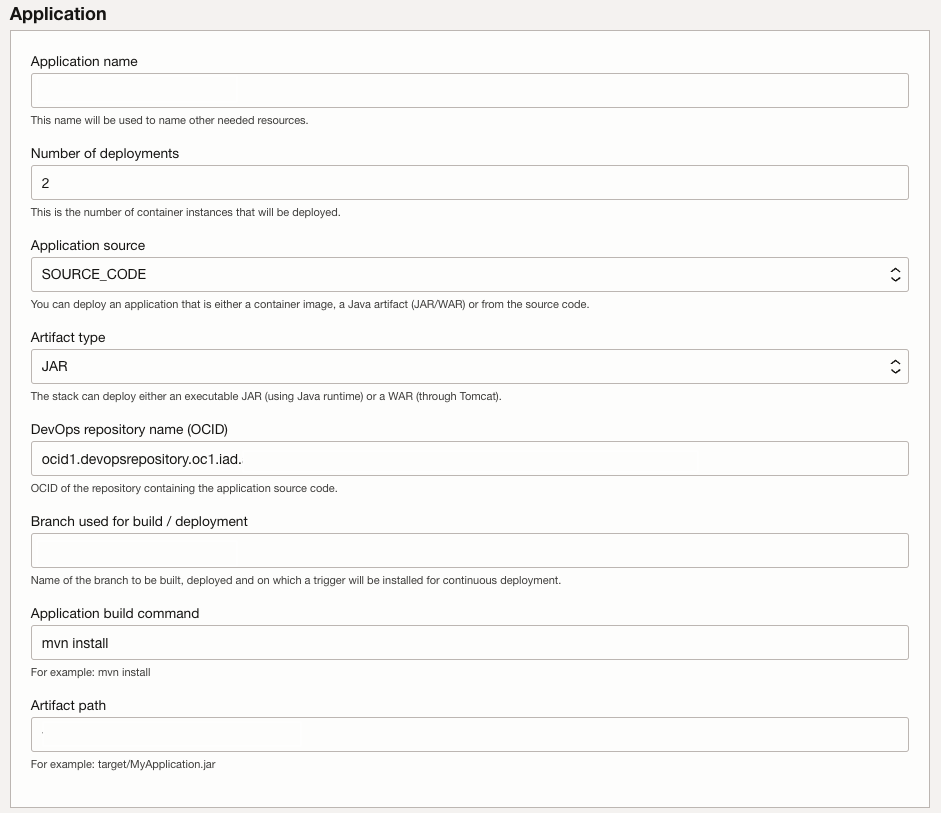
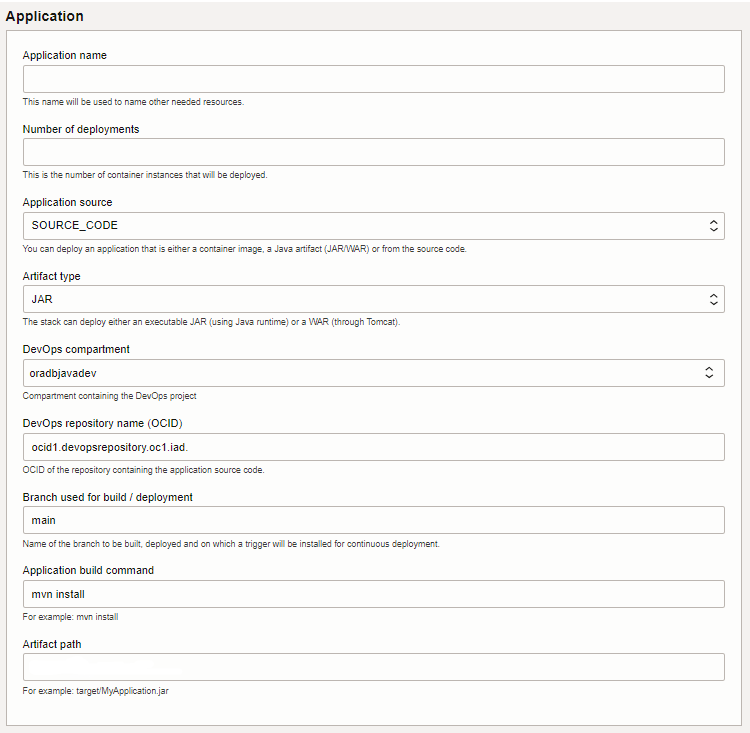
Updated usage information from listing (#13)
* Updated usage information from listing

* Updated usage instructions and screen shot

* Image update

* Updated image

Changed region(s): [[0.0, 0.0, 1.0, 0.9905], [0.0, 0.9604, 0.9813, 1.0]]

diff --git a/listing/usage-information.html b/listing/usage-information.html
@@ -1,86 +1,142 @@
 <p><strong>Configuration</strong></p>
 
-<p><strong>Application</strong>: The stack allows different types of deployments: <em>source code</em> deployment, <em>java artifact</em> deployment or <em>container image</em> deployment. <em>Source code</em> deployment is possible if the source code of the application is stored in OCI DevOps; <em>Java artifact</em> deployment requires a Java artifact to be present in the OCI Artifact Registry; and <em>Container image</em> deployment requires the container image to&nbsp;be present in an OCI Container Registry accessible by the Stack, the image must be configured to respond to HTTPS requests through the exposed port.</p>
+<p><strong>Application</strong>: The stack allows different types of deployments: <em>source code</em> deployment,
+	<em>java artifact</em> deployment or <em>container image</em> deployment. <em>Source code</em> deployment is possible
+	if the source code of the application is stored in OCI DevOps; <em>Java artifact</em> deployment requires a Java
+	artifact to be present in the OCI Artifact Registry; and <em>Container image</em> deployment requires the container
+	image to&nbsp;be present in an OCI Container Registry accessible by the Stack, the image must be configured to respond
+	to HTTPS requests through the exposed port.
+</p>
 
 <ul>
-	<li><strong>Application Name</strong>: application identifier, used as a prefix to some of the resources created by the stack</li>
+	<li><strong>Application Name</strong>: application identifier, used as a prefix to some of the resources created by
+		the stack</li>
 	<li><strong>Number of deployments</strong>: the number of container instances that will be deployed</li>
 	<li><strong>Application source</strong>:&nbsp;source code, or&nbsp;artifact&nbsp;or&nbsp;container registry.</li>
 	<li>If <em>application source</em> is either&nbsp;<em>source code&nbsp;</em>or&nbsp;<em>artifact</em>:
-	<ul>
-		<li><strong>Artifact type</strong>:
 		<ul>
-			<li>JAR: The executable java archive will be run with the&nbsp;<em>JVM options&nbsp;</em>and&nbsp;<em>Program arguments&nbsp;</em>provided in the &quot;Other parameters&quot; section.</li>
-			<li>WAR: The Web Archive will be deployed in a Tomcat Server. This Tomcat Server will be started using the&nbsp;JVM Options&nbsp;provided in the &quot;Other Parameters&quot; section.</li>
+			<li><strong>Artifact type</strong>:
+				<ul>
+					<li>JAR: The executable java archive will be run with the&nbsp;<em>JVM options&nbsp;</em>and&nbsp;<em>Program
+							arguments&nbsp;</em>provided in the &quot;Other parameters&quot; section.</li>
+					<li>WAR: The Web Archive will be deployed in a Tomcat Server. This Tomcat Server will be started using
+						the&nbsp;JVM Options&nbsp;provided in the &quot;Other Parameters&quot; section.</li>
+				</ul>
+			</li>
 		</ul>
-		</li>
-	</ul>
 	</li>
 	<li>If <em>application source</em> is&nbsp;<em>source code</em>:&nbsp;
-	<ul>
-		<li><strong>DevOps repository name (OCID)</strong>: OCID of the repository containing the source code of the application.</li>
-		<li><strong>Branch used for build/deployment</strong>: name of the branch to build and deploy. The application will be&nbsp;built and deployed each time a change is made to this branch.</li>
-		<li><strong>Application build command</strong>: command will be used by the build pipeline to build the application.</li>
-		<li><strong>Artifact path</strong>: path to the generated application artifact (jar or war file) once the application is built.</li>
-	</ul>
+		<ul>
+			<li><strong>DevOps repository name (OCID)</strong>: OCID of the repository containing the source code of the
+				application.</li>
+			<li><strong>Branch used for build/deployment</strong>: name of the branch to build and deploy. The application
+				will be&nbsp;built and deployed each time a change is made to this branch.</li>
+			<li><strong>Application build command</strong>: command will be used by the build pipeline to build the
+				application.</li>
+			<li><strong>Artifact path</strong>: path to the generated application artifact (jar or war file) once the
+				application is built.</li>
+		</ul>
 	</li>
 	<li>If <em>application source</em> is&nbsp;<em>artifact</em>:
-	<ul>
-		<li><strong>Artifact repository OCID</strong>: OCID of the repository containing the artifact.</li>
-		<li><strong>Artifact OCID</strong>: OCID of the artifact to deploy.</li>
-	</ul>
+		<ul>
+			<li><strong>Artifact repository OCID</strong>: OCID of the repository containing the artifact.</li>
+			<li><strong>Artifact OCID</strong>: OCID of the artifact to deploy.</li>
+		</ul>
 	</li>
 	<li>If <em>application source</em> is&nbsp;<em>container image</em>:
-	<ul>
-		<li><strong>Full path to the image in container registry.</strong></li>
-		<li><strong>Exposed port</strong>: port exposed by the container image.</li>
-	</ul>
+		<ul>
+			<li><strong>Full path to the image in container registry.</strong></li>
+			<li><strong>Exposed port</strong>: port exposed by the container image.</li>
+		</ul>
 	</li>
 </ul>
 
-<p><strong>Database</strong>: The stack assumes that the persistence is handled by a database and this section lets you configure that database. You can either choose an existing database by selecting the database or create a new one.</p>
+<p><strong>Stack authentication</strong>: a Vault is used to store sensitive information such as authentication tokens
+	and passwords.&nbsp;The stack can either use an existing vault or create a new one.&nbsp;To use an existing key vault,
+	the stack will let you select the existing vault and key (AES). To create a new vault you must provide
+	the&nbsp;user-friendly name of the vault to create.</p>
+
+<p>An <strong>authentication token</strong> is used by the stack to authenticate the user when connecting to the code
+	repository or container registry. This token can either be provided or created by the stack.</p>
+
+<p><strong>Database</strong>: The stack assumes that the persistence is handled by a database and this section lets you
+	configure that database. You can either choose an existing database by selecting the database or create a new one.</p>
 
 <ul>
 	<li>Use existing database:
-	<ul>
-		<li><strong>Autonomous Database</strong>: select the database you want the application to access.</li>
-		<li><strong>DB username</strong>: database user used to access the database.</li>
-		<li><strong>DB user password</strong>: provide the user&#39;s password.</li>
-	</ul>
+		<ul>
+			<li><strong>Autonomous Database</strong>: select the database you want the application to access.</li>
+			<li><strong>DB username</strong>: database user used to access the database.</li>
+			<li><strong>DB user password</strong>: provide the user&#39;s password.</li>
+		</ul>
 	</li>
 	<li>Create new database:
-	<ul>
-		<li><strong>Autonomous Database display name</strong>: user-friendly display name of the autonomous database.</li>
-		<li><strong>Database ADMIN password</strong>: password of the ADMIN user of the database.</li>
-		<li><strong>Storage (TB)</strong>: The amount of storage in TB to allocate.</li>
-		<li><strong>OCPU count</strong>: The number of OCPU cores to enable. Available cores are subject to your tenancy&#39;s service limits.</li>
-	</ul>
+		<ul>
+			<li><strong>Autonomous Database display name</strong>: user-friendly display name of the autonomous database.</li>
+			<li><strong>Database ADMIN password</strong>: password of the ADMIN user of the database.</li>
+			<li><strong>Storage (TB)</strong>: The amount of storage in TB to allocate.</li>
+			<li><strong>OCPU count</strong>: The number of OCPU cores to enable. Available cores are subject to your
+				tenancy&#39;s service limits.</li>
+		</ul>
 	</li>
 </ul>
 
-<p>If the application consumes environment variables to configure the database access, the stack can set these environment variables so that the application will connect to the selected database. If the&nbsp;<em>application source&nbsp;</em>is either&nbsp;<em>source code&nbsp;</em>or&nbsp;<em>artifact</em>, the stack will configure the application to use mutual TLS when connecting to the database (using a wallet in which the username and password used to access the database are stored). Therefore the only configuration parameter needed to connect to the database is the connection URL that can be set through an environment variable whose name is configurable.&nbsp;If you are deploying the application using a <em>container image</em>, three environment variables will be available, these environment variables configure the database connection URL, username and password. A check box will allow you to choose if you want to use a given&nbsp;environment variable, if you check that checkbox you will be prompted for the environment variable&#39;s name.</p>
+<p>If the application consumes environment variables to configure the database access, the stack can set these
+	environment variables so that the application will connect to the selected database. If the&nbsp;<em>application
+		source&nbsp;</em>is either&nbsp;<em>source code&nbsp;</em>or&nbsp;<em>artifact</em>, the stack will configure the
+	application to use mutual TLS when connecting to the database (using a wallet in which the username and password used
+	to access the database are stored). Therefore the only configuration parameter needed to connect to the database is
+	the connection URL that can be set through an environment variable whose name is configurable.&nbsp;If you are
+	deploying the application using a <em>container image</em>, three environment variables will be available, these
+	environment variables configure the database connection URL, username and password. A check box will allow you to
+	choose if you want to use a given&nbsp;environment variable, if you check that checkbox you will be prompted for the
+	environment variable&#39;s name.</p>
 
-<p><strong>Other Parameters</strong>: Besides the above predefined environment variables, the stack allows you to provide other parameters to your application. This can be achieved by providing environment variables, JVM options and/or program arguments. The use of JVM option is possible when the&nbsp;<em>application source</em>&nbsp;is either <em>source code </em>or&nbsp;<em>artifact</em>,&nbsp;and the use of program arguments is only possible when the&nbsp;<em>artifact type</em>&nbsp;is&nbsp;<em>JAR</em>.</p>
+<p><strong>Other Parameters</strong>: Besides the above predefined environment variables, the stack allows you to
+	provide other parameters to your application. This can be achieved by providing environment variables, JVM options
+	and/or program arguments. The use of JVM option is possible when the&nbsp;<em>application source</em>&nbsp;is either
+	<em>source code </em>or&nbsp;<em>artifact</em>,&nbsp;and the use of program arguments is only possible when
+	the&nbsp;<em>artifact type</em>&nbsp;is&nbsp;<em>JAR</em>.
+</p>
 
 <ul>
-	<li><strong>Other environment variables</strong>: you can use this field to set environment variables consumed by your applicaiton. These environment variables should be provided as a semicolon separated list of &lt;name, value&gt; pairs in the following format: var1=value1;var2=value2 ... varN=valueN.</li>
-	<li><strong>JVM options</strong>: You can also provide JVM options that will be set when starting the java VM. If the artifact type of you application is a JAR, the JVM Options will be set when starting the JAR file and if the artifact type is a WAR, the JVM Options will be set when starting Tomcat.</li>
-	<li><strong>Program arguments</strong>: If your application consumes arguments, you can use this field to set them. Arguments should be provided as a space separated list and will be passed to the application at start-up : arg1&nbsp; arg2 ..., argN.</li>
+	<li><strong>Other environment variables</strong>: you can use this field to set environment variables consumed by your
+		applicaiton. These environment variables should be provided as a semicolon separated list of &lt;name, value&gt;
+		pairs in the following format: var1=value1;var2=value2 ... varN=valueN.</li>
+	<li><strong>JVM options</strong>: You can also provide JVM options that will be set when starting the java VM. If the
+		artifact type of you application is a JAR, the JVM Options will be set when starting the JAR file and if the
+		artifact type is a WAR, the JVM Options will be set when starting Tomcat.</li>
+	<li><strong>Program arguments</strong>: If your application consumes arguments, you can use this field to set them.
+		Arguments should be provided as a space separated list and will be passed to the application at start-up :
+		arg1&nbsp; arg2 ..., argN.</li>
 </ul>
 
-<p><strong>Application configuration - SSL communication between backends and load balancer</strong>: A certificate is needed to configure the load balancer and the backends so that the communication between them is done using SSL.&nbsp;</p>
+<p><strong>Application configuration - SSL communication between backends and load balancer</strong>: A certificate is
+	needed to configure the load balancer and the backends so that the communication between them is done using SSL.&nbsp;
+</p>
 
-<p>If the&nbsp;<em>application source&nbsp;</em>is either&nbsp;<em>source code&nbsp;</em>or&nbsp;<em>artifact</em>, the stack creates the self-signed certificate that will be used for the communication between the load balancer and the backends and stores&nbsp;it in a JKS keystore. If the&nbsp;<em>artifact type&nbsp;</em>is a <em>WAR </em>(web application deployed using Tomcat) Tomcat will be configured to use this keystore. If the&nbsp;<em>artifact type&nbsp;</em>is <em>JAR </em>the stack can use <strong>properties </strong>to configure SSL for the application.&nbsp;By default Spring boot properties will be used by the stack. A checkbox allows to change that configuration.</p>
+<p>If the&nbsp;<em>application source&nbsp;</em>is either&nbsp;<em>source code&nbsp;</em>or&nbsp;<em>artifact</em>, the
+	stack creates the self-signed certificate that will be used for the communication between the load balancer and the
+	backends and stores&nbsp;it in a JKS keystore. If the&nbsp;<em>artifact type&nbsp;</em>is a <em>WAR </em>(web
+	application deployed using Tomcat) Tomcat will be configured to use this keystore. If the&nbsp;<em>artifact
+		type&nbsp;</em>is <em>JAR </em>the stack can use <strong>properties </strong>to configure SSL for the
+	application.&nbsp;By default Spring boot properties will be used by the stack. A checkbox allows to change that
+	configuration.</p>
 
 <ul>
 	<li><strong>Server port number property name</strong>: name of the property to configure the server port.</li>
-	<li><strong>SSL keystore filename property name</strong>: name of the property to configure the SSL keystore filename.</li>
-	<li><strong>SSL key alias property name</strong>: name of the property to configure the SSL key alias property name.</li>
-	<li><strong>SSL keystore password property name</strong>: name of the property to configure the SSL keystore password property name.</li>
-	<li><strong>SSL keystore type property name</strong>: name of the property to configure the SSL keystore type property name.</li>
+	<li><strong>SSL keystore filename property name</strong>: name of the property to configure the SSL keystore filename.
+	</li>
+	<li><strong>SSL key alias property name</strong>: name of the property to configure the SSL key alias property name.
+	</li>
+	<li><strong>SSL keystore password property name</strong>: name of the property to configure the SSL keystore password
+		property name.</li>
+	<li><strong>SSL keystore type property name</strong>: name of the property to configure the SSL keystore type property
+		name.</li>
 </ul>
 
-<p>If the&nbsp;<em>application source</em>&nbsp;is&nbsp;<em>container image</em>, the image must&nbsp;already be configured to use SSL, the following information is necessary to configure the load balancer (PEM format):</p>
+<p>If the&nbsp;<em>application source</em>&nbsp;is&nbsp;<em>container image</em>, the image must&nbsp;already be
+	configured to use SSL, the following information is necessary to configure the load balancer (PEM format):</p>
 
 <ul>
 	<li><strong>SSL certificate</strong>: the public certificate.</li>
@@ -88,40 +144,56 @@
 	<li><strong>CA certificate</strong>: the CA certificate.</li>
 </ul>
 
-<p><strong>Vault</strong>: a Vault is used to store sensitive information such as authentication tokens and passwords. The stack can either use an existing vault (which can be in a different compartment) or create a new one.&nbsp;To use an existing key vault, the stack will let you select the existing vault and key (AES). To create a new vault you must provide the&nbsp;user-friendly name of the vault to create.</p>
-
-<p><strong>Application URL</strong>: if you have a DNS domain that&#39;s managed in OCI you can configure the stack to add a new record (hostname) for your application. A certificate will also be needed so that the application can be accessed using SSL.</p>
+<p><strong>Application URL</strong>: if you have a DNS domain that&#39;s managed in OCI you can configure the stack to
+	add a new record (hostname) for your application. A certificate will also be needed so that the application can be
+	accessed using SSL.</p>
 
 <ul>
 	<li><strong>DNS zone</strong>: homain name managed in OCI DNS.</li>
-	<li><strong>Host name</strong>: host name that will be created on the selected Zone and will resolve to the the load balancer&#39;s IP address.</li>
+	<li><strong>Host name</strong>: host name that will be created on the selected Zone and will resolve to the the load
+		balancer&#39;s IP address.</li>
 	<li><strong>Certificate OCID</strong>: certificate for the application URL</li>
 </ul>
 
-<p><strong>Network</strong>: The stack is designed to create all of its resources in the same VCN. You have the choice between using an existing VCN or creating a new one. If you chose to use an existing VNC you can either use existing subnets or create&nbsp;new ones.</p>
+<p><strong>Network</strong>: The stack is designed to create all of its resources in the same VCN. You have the choice
+	between using an existing VCN or creating a new one. If you chose to use an existing VNC you can either use existing
+	subnets or create&nbsp;new ones.</p>
 
 <ul>
-	<li>The <strong>application subnet</strong>&nbsp;is for the container instances running the application and the&nbsp;deployment pipeline. An Network Security Group (NSG) will be created and configured to allow the communication between the application and: the load balancer,&nbsp;the database and other OCI Services through a Service Gateway.</li>
-	<li>A <strong>database subnet</strong> is only needed if the Stack creates a new database. A NSG will be created and configured to allow the communication between the application and the database.&nbsp;</li>
-	<li>The <strong>load balancer subnet </strong>can either be private (accessible from inside OCI) or public (accessible from both OCI and the Internet). A NSG will be created and configured to allow the communication between the load balancer and the application. If you chose to <em>open the load balancer to the internet</em>, the load balancer subnet will be a public subnet and an Internet Gateway will be created.</li>
+	<li>The <strong>application subnet</strong>&nbsp;is for the container instances running the application and
+		the&nbsp;deployment pipeline. An Network Security Group (NSG) will be created and configured to allow the
+		communication between the application and: the load balancer,&nbsp;the database and other OCI Services through a
+		Service Gateway.</li>
+	<li>A <strong>database subnet</strong> is only needed if the Stack creates a new database. A NSG will be created and
+		configured to allow the communication between the application and the database.&nbsp;</li>
+	<li>The <strong>load balancer subnet </strong>can either be private (accessible from inside OCI) or public (accessible
+		from both OCI and the Internet). A NSG will be created and configured to allow the communication between the load
+		balancer and the application. If you chose to <em>open the load balancer to the internet</em>, the load balancer
+		subnet will be a public subnet and an Internet Gateway will be created.</li>
 </ul>
 
-<p>By default the <em>load balancer</em> is configured with minimum and maximum bandwidth of 10Mbps, the health check URL is set to &quot;/&quot; and the status code 200. These values can be changed if needed.</p>
+<p>By default the <em>load balancer</em> is configured with minimum and maximum bandwidth of 10Mbps, the health check
+	URL is set to &quot;/&quot; and the status code 200. These values can be changed if needed.</p>
 
-<p><strong>Container instance configuration</strong>: finally you can chose the shape and size of the container instances that will run your application.</p>
+<p><strong>Container instance configuration</strong>: finally you can chose the shape and size of the container
+	instances that will run your application.</p>
 
 <p><strong>Once the stack is configured it will</strong>:</p>
 
 <ul>
 	<li>Create a new repository called &quot;&lt;application-name&gt;_config&quot; that includes:
-	<ul>
-		<li><em>wallet.zip</em>: the database wallet (if the database wallet is rotated this zip file needs to be updated)</li>
-		<li><em>Dockerfile</em>: used to build the container image</li>
-		<li><em>build_spec.yaml</em>: build spec for the build pipeline</li>
-		<li><em>self.keystore</em>: self-signed keystore for the internal https connection between the load balancer and the container instances</li>
-	</ul>
+		<ul>
+			<li><em>wallet.zip</em>: the database wallet (if the database wallet is rotated this zip file needs to be updated)
+			</li>
+			<li><em>Dockerfile</em>: used to build the container image</li>
+			<li><em>build_spec.yaml</em>: build spec for the build pipeline</li>
+			<li><em>self.keystore</em>: self-signed keystore for the internal https connection between the load balancer and
+				the container instances</li>
+		</ul>
 	</li>
 	<li>Generate a container image of the application, and add it to the&nbsp;Container Registry</li>
 	<li>Deploy the application as a container in&nbsp;Container Instances</li>
 	<li>Leverage OCI services such as VCN, Load Balancer, APM</li>
 </ul>
+
+<p>&nbsp;</p>

diff --git a/usage_instructions.md b/usage_instructions.md
@@ -25,6 +25,7 @@ The stack supports different kinds of deployments: *source code* deployment, jav
        - WAR: If your application is packaged as a Web Archive. The WAR will be deployed in a Tomcat Server. This Tomcat Server will be started using the JVM Options provided in the "Other Parameters" section.
 
   - If the *application source* is *source code*: 
+       - **DevOps compartment:** select the compartment containing the code repository
        - **DevOps repository name (OCID):** OCID of the repository containing the *source code* of the application
        - **Branch used for build/deployment:** name of the branch to build a deploy. A build trigger will be added so that the application is built and deployed each time a change is made to this branch.
        - **Application build command:** command used to build the application. This command will be used by the build pipeline to build the application.
@@ -35,6 +36,27 @@ The stack supports different kinds of deployments: *source code* deployment, jav
   - If the *application source* is a *container image*:
        - **Full path to the image in the container registry**
        - **Exposed port:** port exposed by the container image
+
+## Stack authentication
+
+![](./screenshots/7_Vault.png)
+
+An **authentication token** is used by the stack to authenticate the user when connecting to the code repository or container registry. This token can either be provided or created by the stack. **Note** that there is a limit on the maximum number of authentication tokens a user can have and that once the token is generated it will not be displayed again.
+
+To use an existing token:
+  - **User's authentication token:** provide the user's authentication token
+
+A **Vault** is used to store sensitive information such as authentication tokens and passwords. The stack can either use an existing vault (which can be in a different compartment) or create a new one.
+
+To use an existing key vault :
+
+ - **Compartment:** select the compartment containing the vault
+ - **Vault:** select the vault you would like to use
+ - **Encryption key:** select a AES encryption key to use
+
+To create a new vault:
+
+ - **Key vault display name:** user-friendly name of the vault to create. The vault will be created in the same compartment as the rest of the resources created by the stack.
 
 ## Application Performance Monitoring (APM)
 
@@ -107,29 +129,13 @@ If the *application source* is a *container image*, the image must be configured
  - **Private key:** The certificate's private key (PEM format)
  - **CA certificate:** The CA certificate (PEM format, same as the certificate for self-signed certificates)
 
-
-## Vault
-
-![](./screenshots/7_Vault.png)
-
-A Vault is used to store sensitive information such as authentication tokens and passwords. The stack can either use an existing vault (which can be in a different compartment) or create a new one.
-
-To use an existing key vault :
-
- - **Compartment:** select the compartment containing the vault
- - **Vault:** select the vault you would like to use
- - **Encryption key:** select a AES encryption key to use
-
-To create a new vault:
-
- - **Key vault display name:** user-friendly name of the vault to create. The vault will be created in the same compartment as the rest of the resources created by the stack.
-
 ## Application URL
 
 ![](./screenshots/8_ApplicationURL.png)
 
 This is optional but if you have a DNS domain that's managed in OCI you can configure the stack to add a new record (hostname) for your application. A certificate will also be needed so that the application can be accessed through HTTPS.
 
+ - **DNS and Certificate compartement:** select the compartment containing the DNS Zone and the Certificate
  - **DNS zone:** Domain name in which the hostname will be created.
  - **Hostname:** The hostname will be created on the selected Zone and will resolve to the load balancer's IP address.
  - **Certificate OCID:** certificate for the application URL
